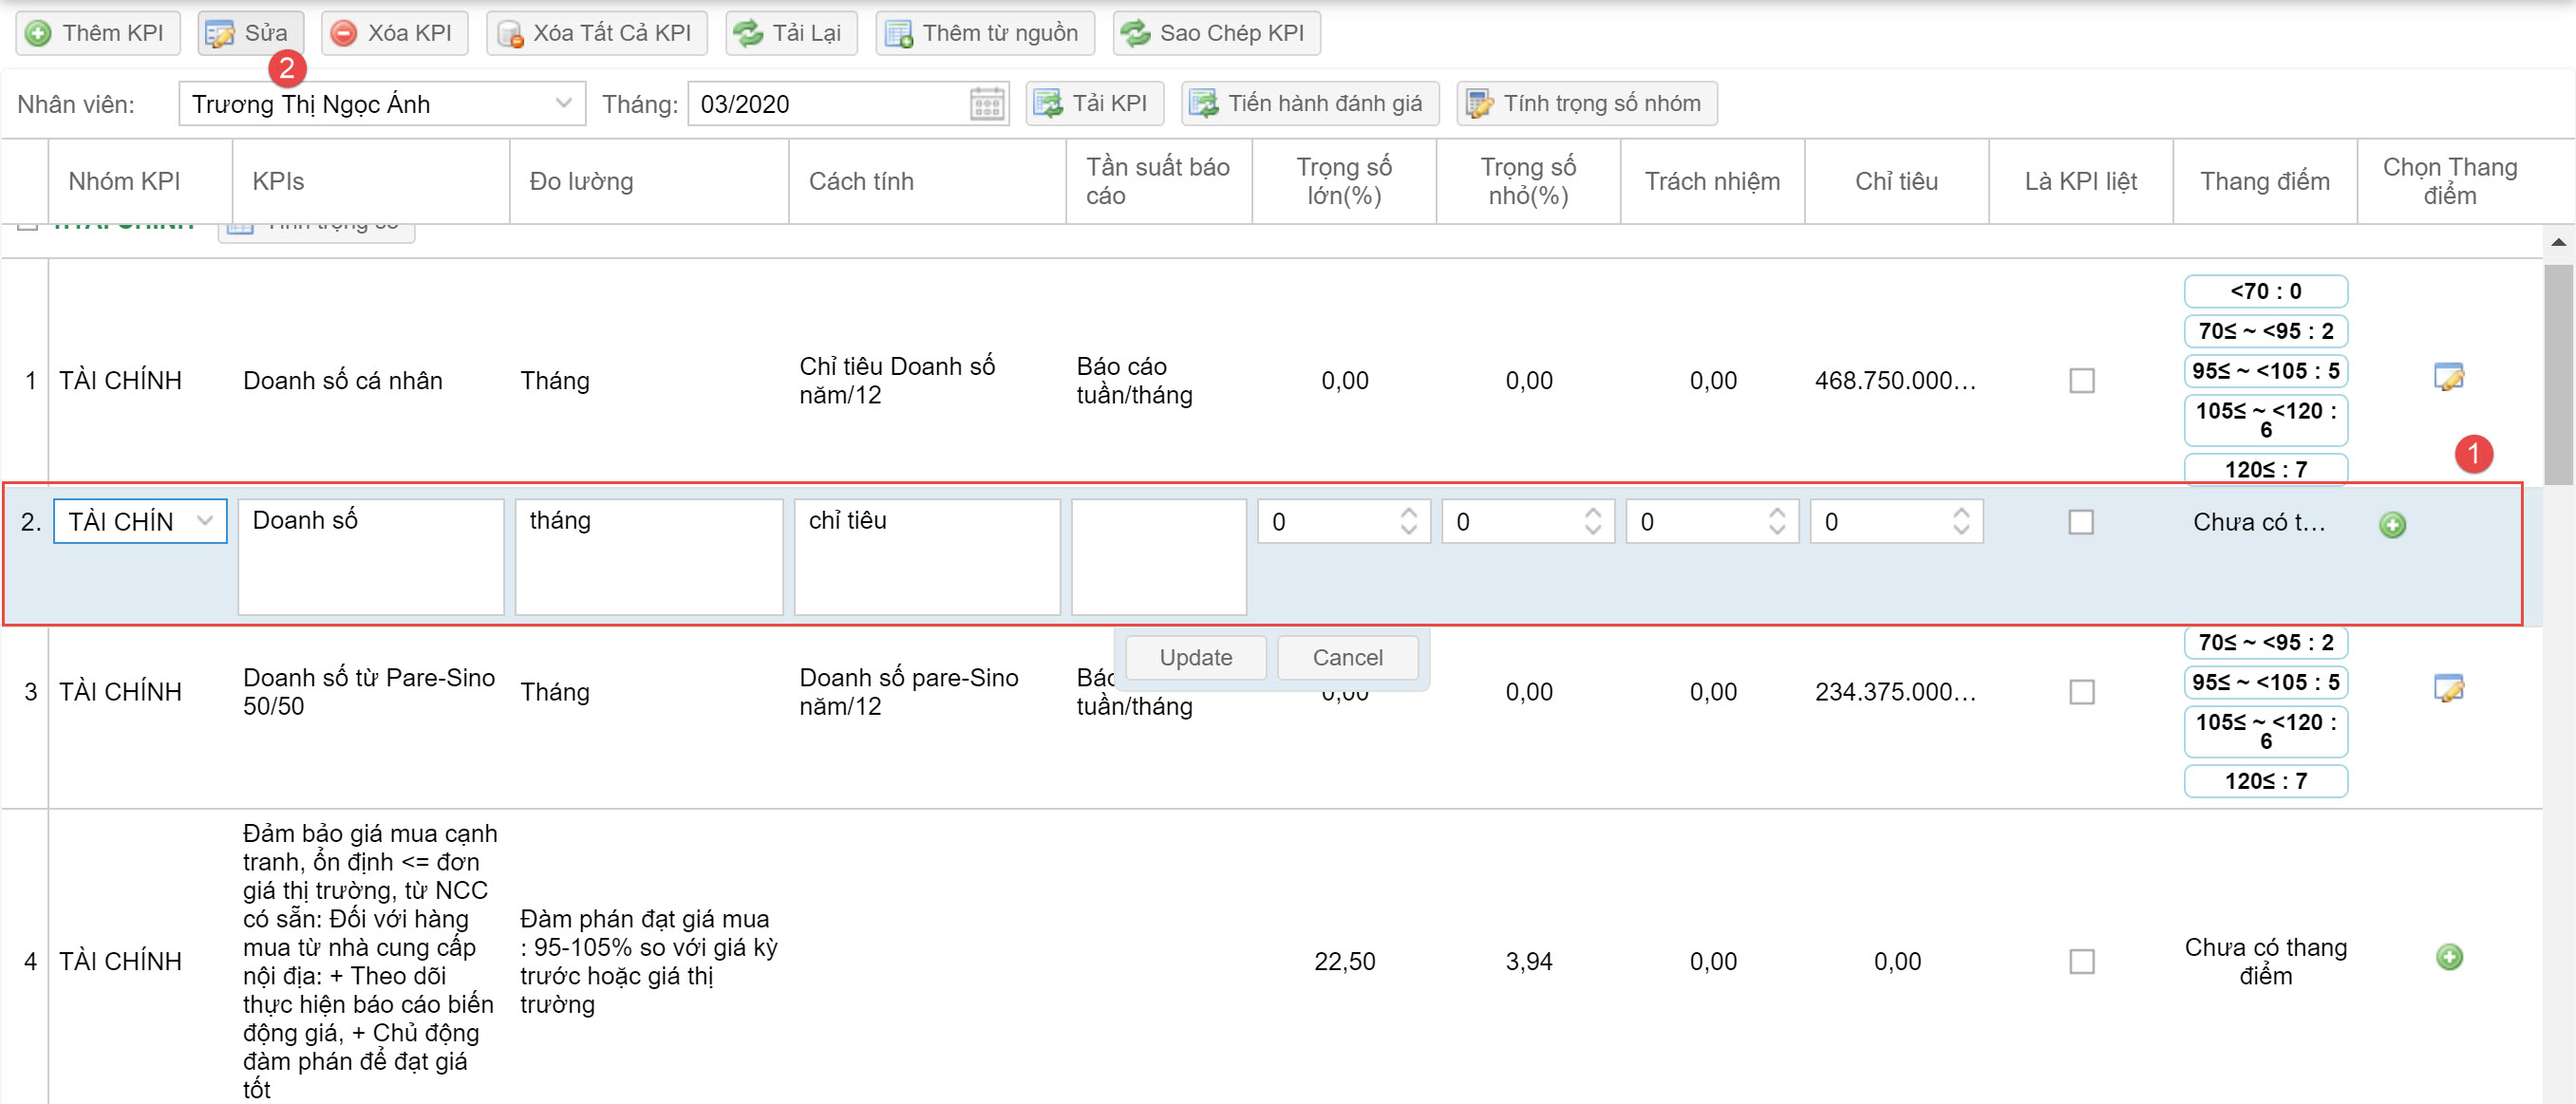
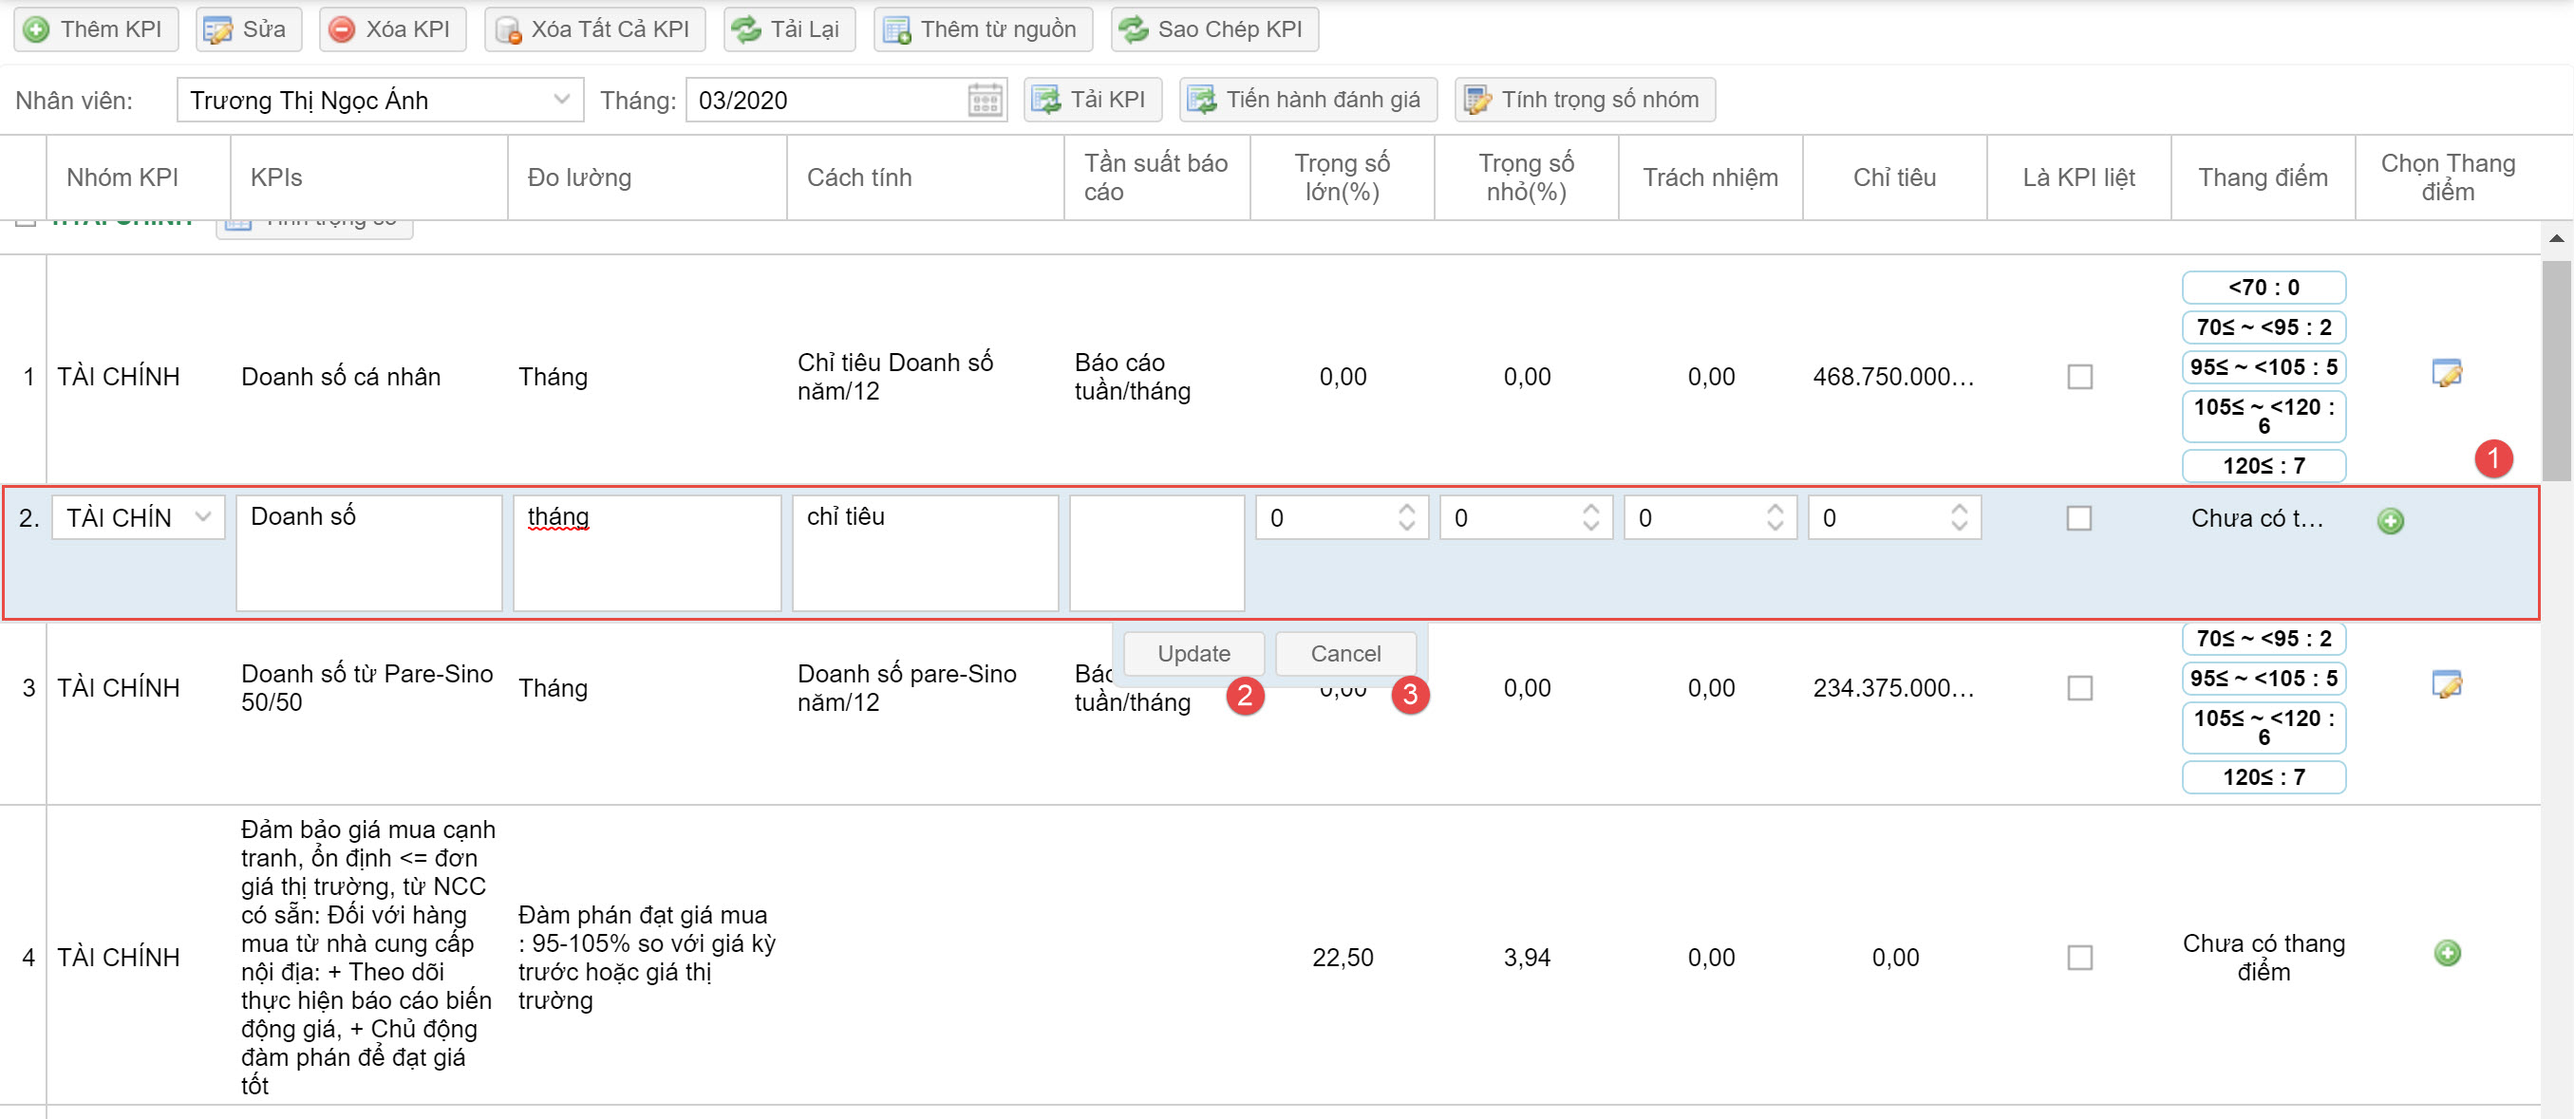
edit kpi man

diff --git a/docs/_docs/en/3.2-KPIManager.md b/docs/_docs/en/3.2-KPIManager.md
@@ -87,7 +87,7 @@ sidebar:
      ![](assets/kpimanager/kpimanagerimportempok.jpg)
 
 ### **3. Chức năng chỉnh sửa danh sách KPI**
-* Để tiến hành chỉnh sửa danh sách KPI từ nhân viên hiện có, thực hiện như hình sau sau:
+* Để tiến hành chỉnh sửa danh sách KPI từ nhân viên hiện có, thực hiện như hình sau:
 
      ![](assets/kpimanager/kpimanageremp.jpg)
 
@@ -109,16 +109,121 @@ sidebar:
      * (4): Nhấn nút Cancel để hủy tác vụ
 
 ### **3.2. Chức năng chỉnh sửa KPI**    
- * Để tiến hành chỉnh sửa KPI từ nhân viên hiện có, thực hiện như hình sau sau:
+ * Để tiến hành chỉnh sửa KPI từ nhân viên hiện có, thực hiện như hình sau:
 
      ![](assets/kpimanager/kpimanagerempedit.jpg)
 
      * (1): Nhấn chọn KPI cần chỉnh sửa
      * (2): Nhấn chọn nút sửa để sửa thông tin KPI
 
- * Để tiến hành chỉnh sửa KPI từ nhân viên hiện có, thực hiện như hình sau sau:
+ * Hệ thống hiển thị phần chỉnh sửa của kpi đã chọn:
 
-     ![](assets/kpimanager/kpimanagerempedit.jpg)
+     ![](assets/kpimanager/kpimanagerempeditupdate.jpg)
 
-     * (1): Nhấn chọn KPI cần chỉnh sửa
-     * (2): Nhấn chọn nút sửa để sửa thông tin KPI
+     * (1): Vùng thông tin KPI cần chỉnh sửa
+     * (2): Nhấn chọn nút Update để cập nhật vào hệ thống thông tin KPI
+     * (3): Nhấn chọn nút Cancel hủy tác vụ
+
+### **3.3. Chức năng xoá KPI**    
+ * Để tiến hành chỉnh sửa KPI từ nhân viên hiện có, thực hiện như hình sau:
+
+     ![](assets/kpimanager/kpimanagerempdelete.jpg)
+
+     * (1): Nhấn chọn KPI cần xoá
+     * (2): Nhấn chọn nút Xoá KPI để xoá KPI
+
+ * Hệ thống hiển thị thông báo xác nhận xoá kpi đã chọn:
+
+     ![](assets/kpimanager/kpimanagerempdeleteconfirm.jpg)
+
+     * (1): Nhấn chọn Có để xác nhận xoá kpi
+     * (2): Nhấn chọn Không để huỷ tác vụ
+
+### **3.4. Chức năng xoá toàn bộ KPI**    
+ * Để tiến hành xoá toàn bộ KPI từ nhân viên hiện có, thực hiện như hình sau:
+
+     ![](assets/kpimanager/kpimanagerempdelete.jpg)
+
+     * (1): Nhấn chọn KPI cần xoá
+     * (2): Nhấn chọn nút Xoá KPI để xoá KPI
+
+ * Hệ thống hiển thị thông báo xác nhận xoá tất cả kpi đã chọn:
+
+     ![](assets/kpimanager/kpimanagerempdeleteallconfirm.png)
+
+     * (1): Nhấn chọn Có để xác nhận xoá tất cả kpi
+     * (2): Nhấn chọn Không để huỷ tác vụ
+
+### **4. Chức năng cập nhật thang điểm**    
+ * Để tiến hành cập nhật thang điểm KPI từ nhân viên hiện có, thực hiện như hình sau:
+
+     ![](assets/kpimanager/kpimanagermarkingschema.jpg)
+
+     * (1): Nhấn vào nút thêm thang điểm đối với kpi chưa có thang điểm
+     * (2): Nhấn vào nút sửa thang điểm đối với kpi đã có thang điểm và cần thay đổi thang điểm
+
+* Sau khi chọn sửa thang điểm, hệ thống hiển thị màn hình danh sách thang điểm như hình sau:
+
+     ![](assets/kpimanager/kpimanagermarkingschemaselect.jpg)
+
+     * (1): Nhấn vào thang điểm muốn cập nhật cho kpi
+     * (2): Nhấn vào nút Chọn thang điểm và hệ thống sẽ lưu vào thông tin của kpi
+
+     Để xem thêm thông tin về thang điểm vui lòng tham khảo **[Quản lý thang điểm](./quan-ly-thang-diem)**
+
+### **5. Chức năng so sánh cặp - Cập nhật trọng số**    
+ * Để tiến hành cập nhật trọng số KPI từ nhân viên hiện có, thực hiện như hình sau:
+
+     ![](assets/kpimanager/kpimanagercmpselect.jpg)
+
+     * (1): Nhấn vào nút Tính trọng số nhóm để thực hiện cập nhật trọng số của 4 nhóm KPI
+     * (2): Nhấn vào nút Tính trọng số của từng nhóm để cập nhật trọng số cho các kpi của nhóm tương ứng
+
+### **5.1. Chức năng Cập nhật trọng số nhóm**    
+ * Chọn nút Tính trọng số nhóm từ bước 5, các bước thực hiện như hình sau:
+
+     ![](assets/kpimanager/kpimanagertypecmp.jpg)
+
+     * (1): Kiểm tra thông tin kpi nhân viên
+     * (2): Thay đổi trọng số tổng của vị trí nhân viên (vd: 100% cho vị trí không kiêm nhiệm, 75% cho vị trí nhân viên kiêm nhiệm 1, 25% cho vị trí nhân viên kiêm nhiệm 2,...)
+     * (3): Thông tin so sánh của các nhóm KPI, khi người dùng thay đổi so sánh, hệ thống tự tính toán trọng số
+          * KPI sum: tổng điểm của nhóm 
+          * Trọng số lớn: tỉ trọng của nhóm trong 4 nhóm ( KPI sum / Tổng điểm 4 nhóm)
+          * Trọng số nhỏ: tỉ trọng của nhóm trong vị trí của nhân viên ( Trọng số nhóm * trọng số vị trí)
+     * (4): Nhấn nút Lưu so sánh, hệ thống cập nhật trọng số của nhóm vào dữ liệu nhân viên.
+
+### **5.2. Chức năng Cập nhật trọng số kpi**    
+ * Chọn nút Tính trọng số của nhóm tương ứng từ bước 5, các bước thực hiện như hình sau:
+
+     ![](assets/kpimanager/kpimanagerkpicmp.jpg)
+
+     * (1): Chọn lại nhóm kpi nếu nhóm kpi khác nhóm đã nhấn chọn
+     * (2): Kiểm tra thông tin của nhóm kpi cần so sánh
+     * (3): Thông tin so sánh của các KPI, khi người dùng thay đổi so sánh, hệ thống tự tính toán trọng số
+          * KPI sum: tổng điểm của từng kpi 
+          * Trọng số lớn: tỉ trọng của kpi trong danh sách kpi của nhóm ( KPI sum / Tổng điểm kpi)
+          * Trọng số nhỏ: tỉ trọng của kpi trong toàn bộ danh sách kpi ( Trọng số lớn của kpi * trọng số của nhóm)
+     * (4): Nhấn nút Lưu so sánh, hệ thống cập nhật trọng số của từng kpi vào dữ liệu kpi nhân viên.
+
+### **6. Chức năng sao chép kpi**    
+ * Để tiến hành sao chép kpi, thực hiện lần lượt như hình sau:
+
+     ![](assets/kpimanager/kpimanagerclonekpi.jpg)
+
+     * (1): Chọn nhân viên có sẵn kpi
+     * (2): Chọn tháng mà nhân viên tại (1) có kpi cần sao chép
+     * (3): Kiểm tra danh sách kpi ứng với điều kiện tìm kiếm 
+     * (4): Nhấn chọn nút Sao chép KPI, hệ thống đưa danh sách dữ liệu lưu vào bộ nhớ tạm
+
+* Hệ thống hiển thị nơi sẽ sao chép kpi vào, thực hiện chọn như hình sau:
+
+     ![](assets/kpimanager/kpimanagerclonekpiselect.jpg)
+
+     * (1): Chọn nhân viên sẽ được sao chép kpi vào
+     * (2): Chọn tháng mà nhân viên tại (1) có kpi sẽ được sao chép vào
+     * (3): Nhấn Đồng ý và hệ thống sẽ thực hiện thao tác sao chép
+     * (4): Nhấn Hủy để hủy tác vụ
+
+* Hệ thống thực hiện xong, hệ thống hiện thông báo hoàn tất tương tự hình sau:
+
+     ![](assets/kpimanager/kpimanagerclonekpiok.jpg)
